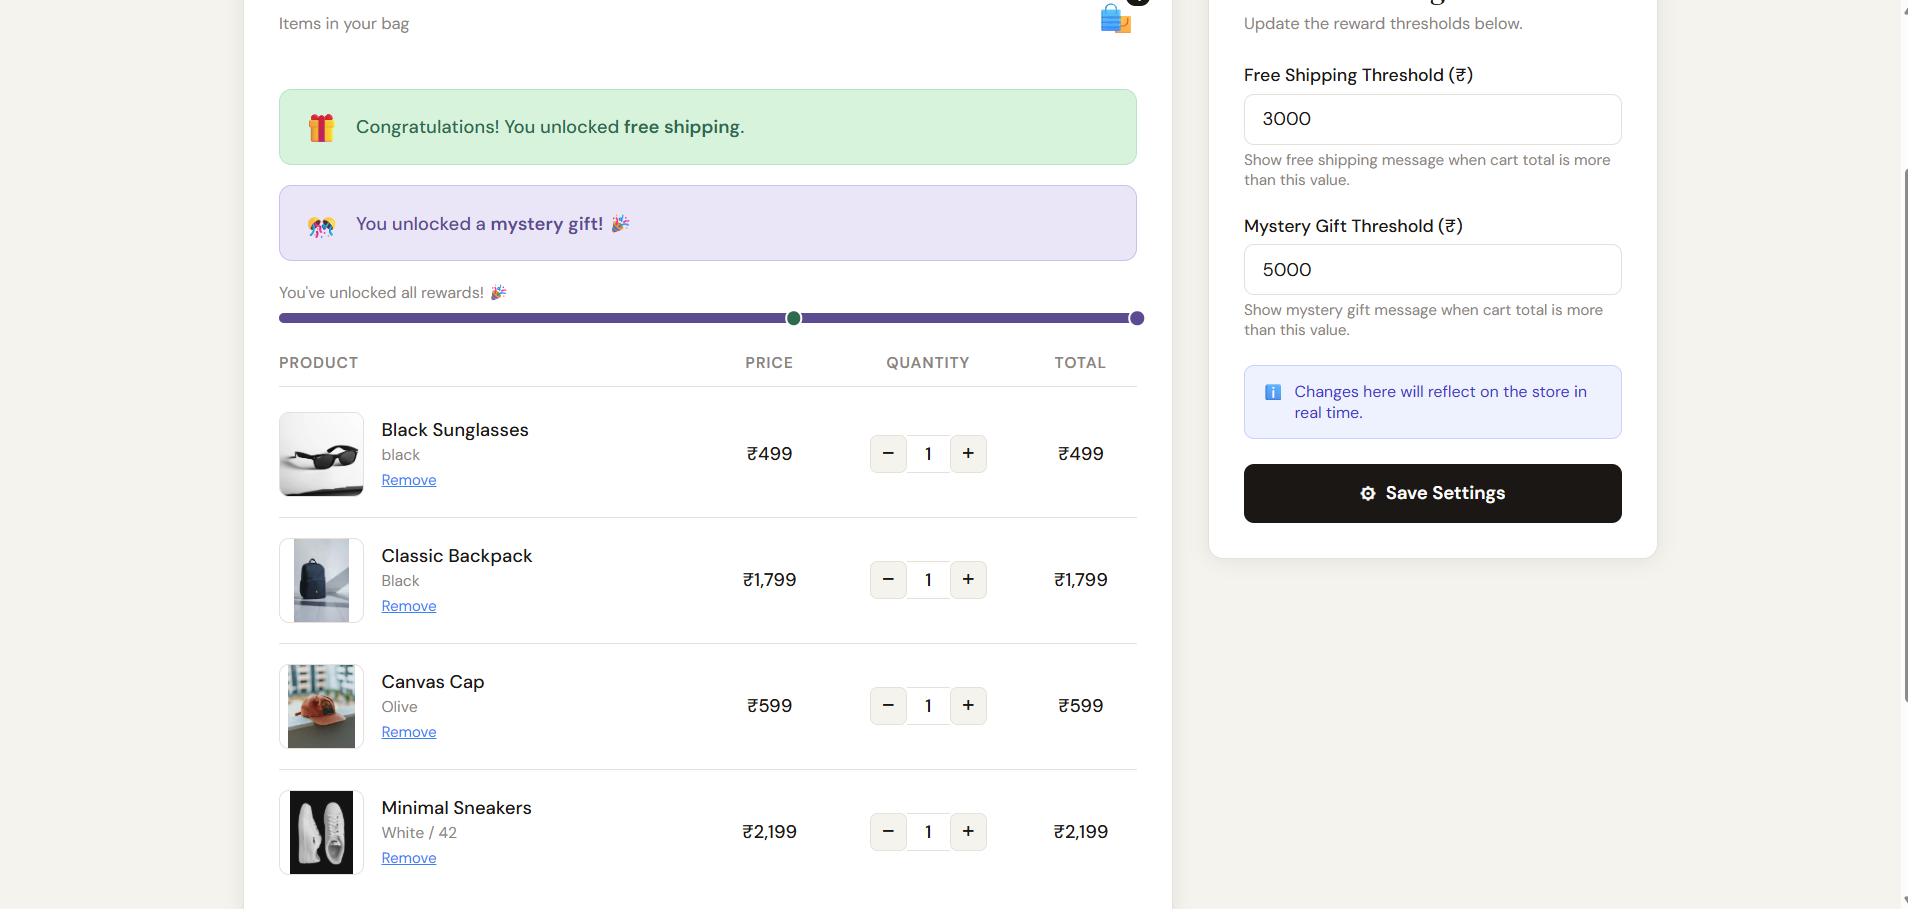
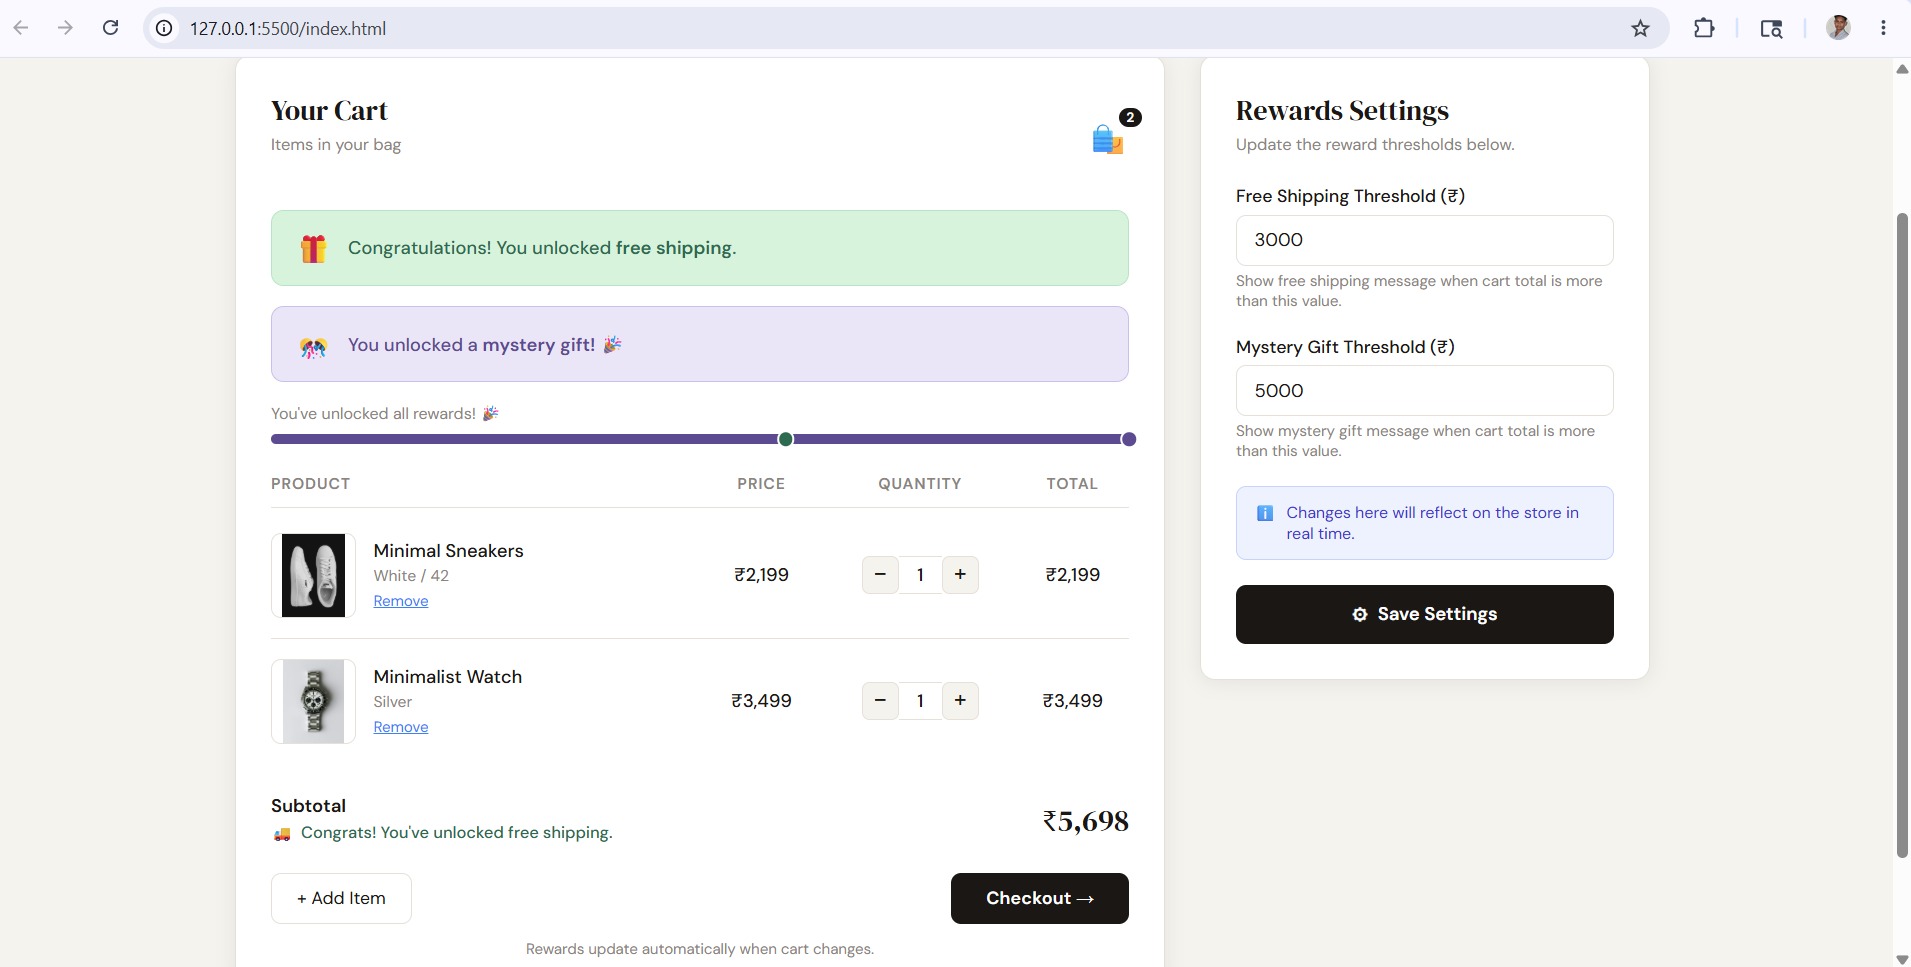
fort time README.md

diff --git a/README.md b/README.md
@@ -148,3 +148,5 @@ Frontend Developer focused on scalable ecommerce UI and Vanilla JavaScript archi
 ## System Design
 
 ![System Design](assets/screenshots/system-design.png)
+
+